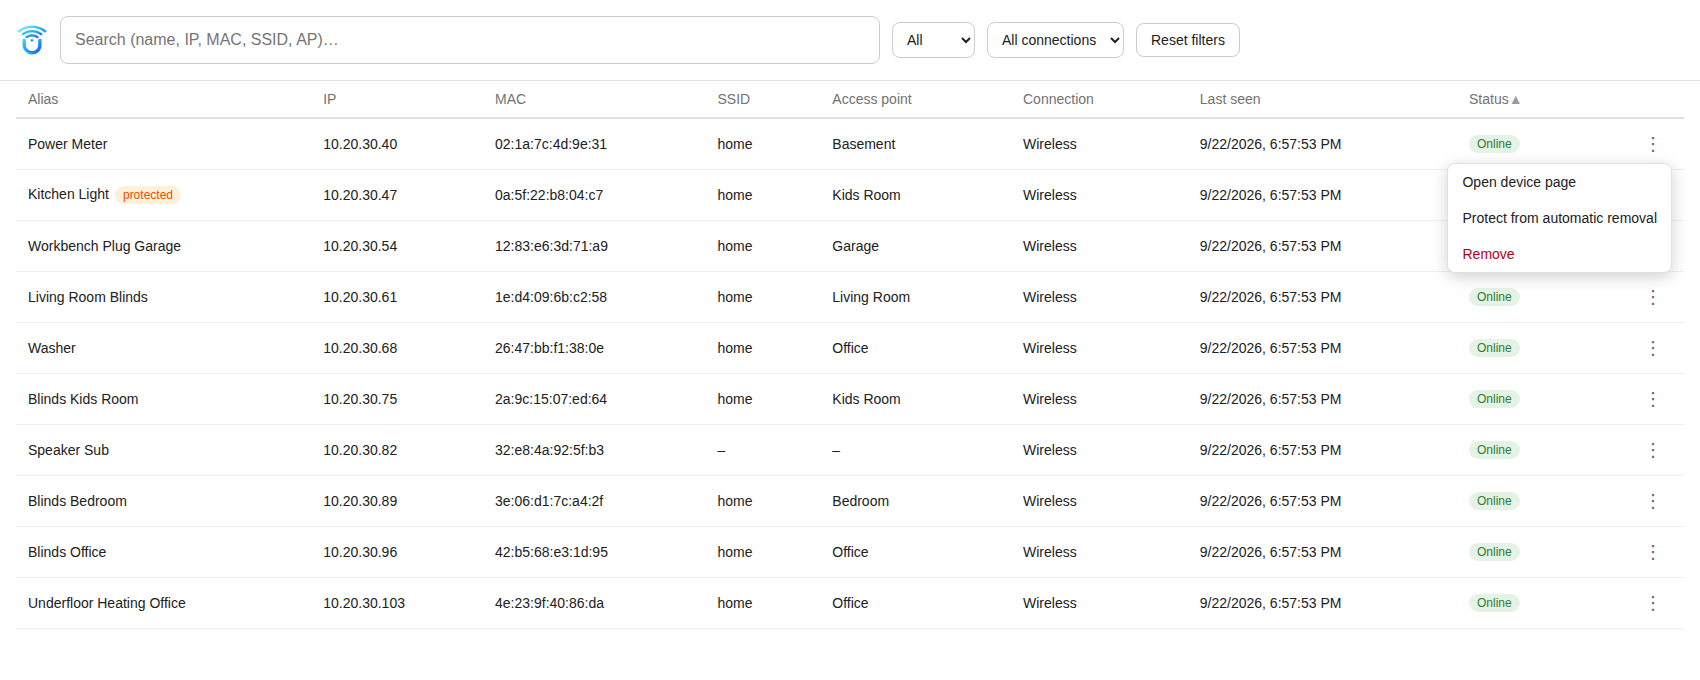
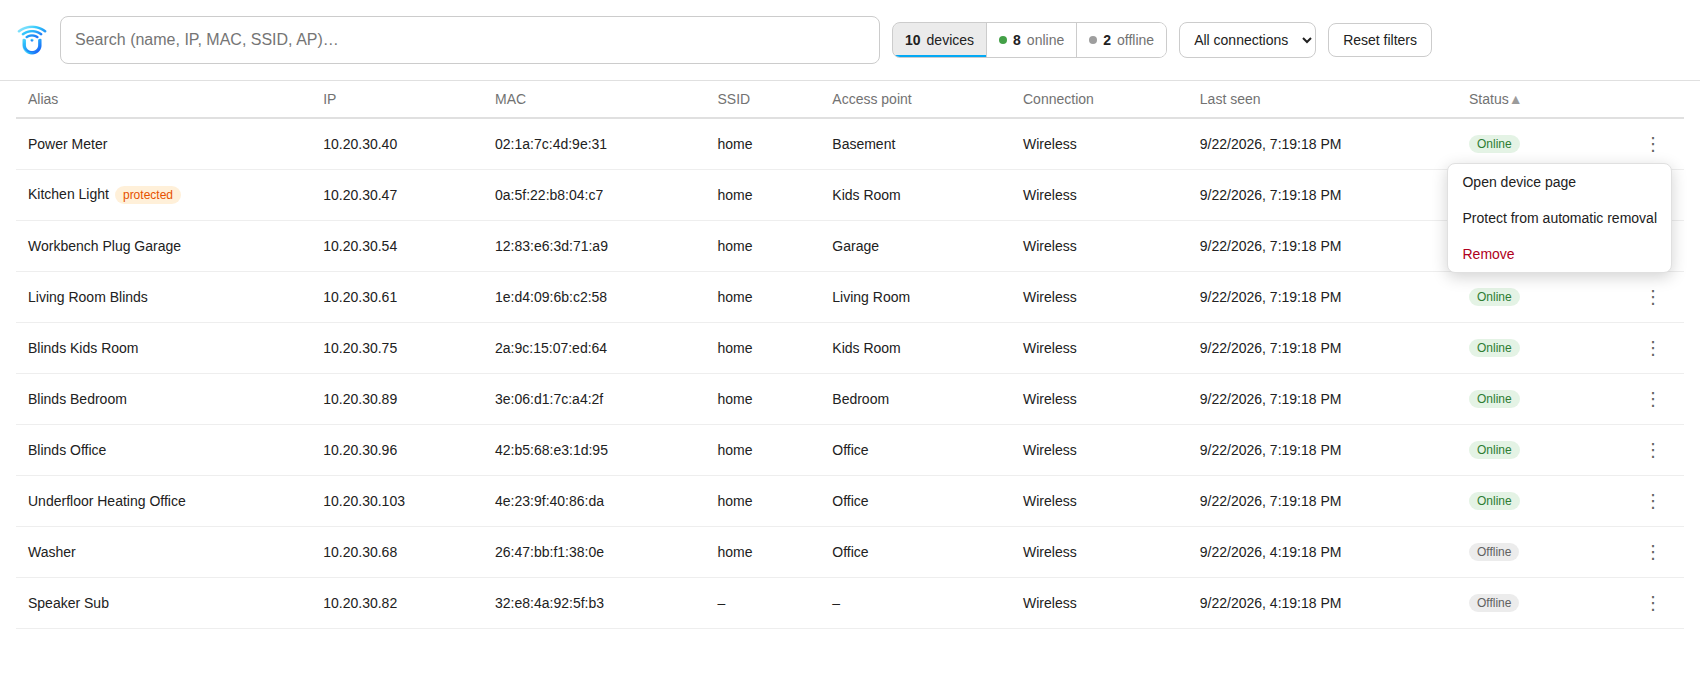
feat: Statusleiste mit Geräte-Zähler als Online/Offline-Filter (v2.0.13)
Die Werkzeugleiste zeigt "40 Geräte · ● 34 online · ○ 6 offline" über
alle Hosts, unabhängig von Suche und Verbindungsfilter. Die Leiste ersetzt
das bisherige Auswahlfeld Alle/Online/Offline und dient selbst als Filter:
Tipp auf online/offline filtert, erneuter Tipp auf den aktiven Teil zeigt
wieder alle, der aktive Teil ist in der Akzentfarbe des Designs markiert.
Die Wahl wird wie die anderen Filter gespeichert (gleicher Pref-Schlüssel,
bestehende Einstellungen gelten weiter).

Auf dem Handy eigene Zeile über die volle Breite, Verbindungsfilter und
Zurücksetzen teilen sich die nächste; etwas knappere Abstände machen die
Werkzeugleiste trotz Zähler 12px niedriger als zuvor (163 statt 175px).

--primary-color und --success-color werden zusätzlich aus dem HA-Design
ins iframe übernommen. Getestet gegen den HA-Nachbau mit Mobile-Emulation:
Zählerwerte, Filtern, Zurückschalten, Zurücksetzen, Persistenz über
Neuladen, Einzahl/Mehrzahl DE/EN, Layout Handy/Desktop (19/19) sowie die
bestehenden Scroll-/Menü-/Navigationstests (27/27).

README-Texte und -Screenshots (erfundene Daten) angepasst.

Claude-Session: https://claude.ai/code/session_01R4WzDvQgfXjNqKYPLvb2xi

diff --git a/custom_components/unifi_dynamic/panel/unifi-dynamic-panel.js b/custom_components/unifi_dynamic/panel/unifi-dynamic-panel.js
@@ -25,9 +25,13 @@
 const STRINGS = {
   de: {
     searchPlaceholder: "Suche (Name, IP, MAC, SSID, AP)…",
-    filterOnlineAll: "Alle",
-    filterOnlineOnline: "Online",
-    filterOnlineOffline: "Offline",
+    statsGroup: "Status-Filter",
+    statTotal: (n) => (n === 1 ? "Gerät" : "Geräte"),
+    statOnline: "online",
+    statOffline: "offline",
+    statShowAll: "Alle anzeigen",
+    statShowOnline: "Nur Online-Geräte anzeigen",
+    statShowOffline: "Nur Offline-Geräte anzeigen",
     filterConnAll: "Alle Verbindungen",
     filterConnWired: "Kabel",
     filterConnWireless: "WLAN",
@@ -63,9 +67,13 @@ const STRINGS = {
   },
   en: {
     searchPlaceholder: "Search (name, IP, MAC, SSID, AP)…",
-    filterOnlineAll: "All",
-    filterOnlineOnline: "Online",
-    filterOnlineOffline: "Offline",
+    statsGroup: "Status filter",
+    statTotal: (n) => (n === 1 ? "device" : "devices"),
+    statOnline: "online",
+    statOffline: "offline",
+    statShowAll: "Show all",
+    statShowOnline: "Show online devices only",
+    statShowOffline: "Show offline devices only",
     filterConnAll: "All connections",
     filterConnWired: "Wired",
     filterConnWireless: "Wireless",
@@ -545,6 +553,78 @@ class UnifiDynamicPanel extends HTMLElement {
           color: var(--primary-text-color, #212121);
           font-size: 14px;
         }
+        /* Zähler und Online/Offline-Filter in einem: ersetzt das frühere
+           Auswahlfeld "Alle/Online/Offline", damit die Werkzeugleiste mit
+           dem Zähler nicht höher wird. Die Zahlen gelten immer für alle
+           Geräte, unabhängig von Suche und Verbindungsfilter. */
+        .stats {
+          flex: 0 0 auto;
+          display: inline-flex;
+          border: 1px solid var(--divider-color, #ccc);
+          border-radius: 8px;
+          overflow: hidden;
+        }
+        .stat {
+          display: inline-flex;
+          align-items: center;
+          justify-content: center;
+          gap: 6px;
+          padding: 7px 12px;
+          border: none;
+          border-left: 1px solid var(--divider-color, #ccc);
+          background: var(--primary-background-color, #fff);
+          color: var(--secondary-text-color, #727272);
+          font: inherit;
+          font-size: 14px;
+          line-height: 20px;
+          cursor: pointer;
+          white-space: nowrap;
+        }
+        .stat:first-child {
+          border-left: none;
+        }
+        .stat:hover {
+          background: var(--secondary-background-color, rgba(0,0,0,0.06));
+        }
+        .stat.active {
+          background: var(--secondary-background-color, rgba(0,0,0,0.08));
+          color: var(--primary-text-color, #212121);
+          box-shadow: inset 0 -2px 0 var(--primary-color, #03a9f4);
+        }
+        .stat-num {
+          font-weight: 600;
+          font-variant-numeric: tabular-nums;
+          color: var(--primary-text-color, #212121);
+        }
+        .dot {
+          width: 8px;
+          height: 8px;
+          border-radius: 50%;
+          flex: 0 0 auto;
+        }
+        .dot.online {
+          background: var(--success-color, #43a047);
+        }
+        .dot.offline {
+          background: var(--disabled-text-color, #9e9e9e);
+        }
+        /* Schmaler Bildschirm: Statusleiste über die ganze Breite, Teile
+           gleich breit - wirkt als eigene Zeile ruhiger als eine halb
+           gefüllte. Etwas knappere Abstände in der Werkzeugleiste lassen
+           der Tabelle trotz Zähler mehr Platz als vorher. */
+        @media (max-width: 600px) {
+          .toolbar {
+            padding: 12px 16px;
+            gap: 10px;
+          }
+          .stats {
+            flex: 1 1 100%;
+          }
+          .stat {
+            flex: 1 1 0;
+            padding: 6px;
+          }
+        }
         .reset-btn {
           padding: 8px 14px;
           border-radius: 8px;
@@ -735,11 +815,22 @@ class UnifiDynamicPanel extends HTMLElement {
             t("clearSearch")
           )}">×</button>
         </div>
-        <select class="filter-online">
-          <option value="all">${this._escape(t("filterOnlineAll"))}</option>
-          <option value="online">${this._escape(t("filterOnlineOnline"))}</option>
-          <option value="offline">${this._escape(t("filterOnlineOffline"))}</option>
-        </select>
+        <div class="stats" role="group" aria-label="${this._escape(t("statsGroup"))}">
+          <button class="stat" data-filter="all" title="${this._escape(t("statShowAll"))}">
+            <span class="stat-num" data-count="all">–</span>
+            <span class="stat-label" data-label="all">${this._escape(t("statTotal")(0))}</span>
+          </button>
+          <button class="stat" data-filter="online" title="${this._escape(t("statShowOnline"))}">
+            <span class="dot online"></span>
+            <span class="stat-num" data-count="online">–</span>
+            <span class="stat-label">${this._escape(t("statOnline"))}</span>
+          </button>
+          <button class="stat" data-filter="offline" title="${this._escape(t("statShowOffline"))}">
+            <span class="dot offline"></span>
+            <span class="stat-num" data-count="offline">–</span>
+            <span class="stat-label">${this._escape(t("statOffline"))}</span>
+          </button>
+        </div>
         <select class="filter-conn">
           <option value="all">${this._escape(t("filterConnAll"))}</option>
           <option value="wired">${this._escape(t("filterConnWired"))}</option>
@@ -792,17 +883,22 @@ class UnifiDynamicPanel extends HTMLElement {
       this._savePrefs();
     });
 
-    // Wert aus den wiederhergestellten Einstellungen übernehmen: <select>
-    // spiegelt kein JS-Feld automatisch, das Attribut im Template müsste
-    // sonst das passende <option> mit "selected" markieren.
-    const filterOnline = this.shadowRoot.querySelector(".filter-online");
-    filterOnline.value = this._onlineFilter;
-    filterOnline.addEventListener("change", (ev) => {
-      this._onlineFilter = ev.target.value;
+    // Statusleiste als Filter: erneuter Tipp auf den bereits aktiven Teil
+    // (online/offline) schaltet zurück auf alle.
+    this.shadowRoot.querySelector(".stats").addEventListener("click", (ev) => {
+      const btn = ev.target.closest(".stat");
+      if (!btn) return;
+      const filter = btn.dataset.filter;
+      this._onlineFilter =
+        filter !== "all" && filter === this._onlineFilter ? "all" : filter;
+      this._openMenuKey = null;
       this._renderRows();
       this._savePrefs();
     });
 
+    // Wert aus den wiederhergestellten Einstellungen übernehmen: <select>
+    // spiegelt kein JS-Feld automatisch, das Attribut im Template müsste
+    // sonst das passende <option> mit "selected" markieren.
     const filterConn = this.shadowRoot.querySelector(".filter-conn");
     filterConn.value = this._connFilter;
     filterConn.addEventListener("change", (ev) => {
@@ -819,7 +915,6 @@ class UnifiDynamicPanel extends HTMLElement {
       this._sortDir = DEFAULT_PREFS.sortDir;
       search.value = this._search;
       searchClear.classList.remove("visible");
-      filterOnline.value = this._onlineFilter;
       filterConn.value = this._connFilter;
       this._openMenuKey = null;
       this._renderHeader();
@@ -914,10 +1009,37 @@ class UnifiDynamicPanel extends HTMLElement {
     // Menüpunkt "Geräteseite öffnen" erreichbar.
   }
 
+  // Zählt immer über alle Geräte (alle Hosts), unabhängig von Suche und
+  // Verbindungsfilter - "wie viele sind gerade online", nicht "wie viele
+  // Zeilen sehe ich". Vor dem ersten Laden und wenn es noch nie geklappt
+  // hat ein Strich statt einer falschen 0.
+  _renderStats() {
+    const root = this.shadowRoot;
+    const stats = root && root.querySelector(".stats");
+    if (!stats) return;
+    const total = this._clients.length;
+    const known = total > 0 || (!this._loading && !this._error);
+    const online = this._clients.filter((c) => c.online).length;
+    const counts = { all: total, online, offline: total - online };
+    for (const key of Object.keys(counts)) {
+      stats.querySelector(`[data-count="${key}"]`).textContent = known
+        ? String(counts[key])
+        : "–";
+    }
+    stats.querySelector('[data-label="all"]').textContent = this._t("statTotal")(total);
+    for (const btn of stats.querySelectorAll(".stat")) {
+      const active = btn.dataset.filter === this._onlineFilter;
+      btn.classList.toggle("active", active);
+      btn.setAttribute("aria-pressed", active ? "true" : "false");
+    }
+  }
+
   _renderRows() {
     if (!this.shadowRoot) return;
     const tbody = this.shadowRoot.querySelector("tbody");
     if (!tbody) return;
+
+    this._renderStats();
 
     const errorBanner = this.shadowRoot.querySelector(".error-banner");
     if (this._error) {

diff --git a/custom_components/unifi_dynamic/panel/panel.html b/custom_components/unifi_dynamic/panel/panel.html
@@ -47,6 +47,8 @@
     "--disabled-text-color",
     "--divider-color",
     "--error-color",
+    "--primary-color",
+    "--success-color",
     "--ha-font-family-body",
     "--paper-font-body1_-_font-family",
   ];

diff --git a/custom_components/unifi_dynamic/const.py b/custom_components/unifi_dynamic/const.py
@@ -167,7 +167,7 @@ PANEL_STATIC_URL_PATH = f"{STATIC_URL_PATH}/panel"
 # Versionsstempel als Cache-Buster an der Seiten-URL; panel.html reicht ihn
 # an den Import der JS-Datei weiter. Wird bei jeder Änderung an panel.html
 # oder am Panel-JS von Hand erhöht, unabhängig von der Integrationsversion.
-PANEL_VERSION = "12"
+PANEL_VERSION = "13"
 PANEL_PAGE_URL = f"{PANEL_STATIC_URL_PATH}/{PANEL_HTML_FILE}?v={PANEL_VERSION}"
 
 DATA_PANEL_REGISTERED = "unifi_dynamic_panel_registered"

diff --git a/CHANGELOG.md b/CHANGELOG.md
@@ -5,6 +5,28 @@ All notable changes to this integration are documented in this file.
 The format is based on [Keep a Changelog](https://keepachangelog.com/en/1.1.0/),
 and this project adheres to [Semantic Versioning](https://semver.org/).
 
+## [2.0.13] - 2026-09-22
+
+### Added
+
+- The panel's toolbar shows a status bar counting all devices and how many
+  of them are online and offline ("40 devices · ● 34 online · ○ 6
+  offline"), across all hosts and regardless of the search or the other
+  filter. It doubles as the online/offline filter: tapping "online" or
+  "offline" shows only those devices, tapping the active part again goes
+  back to all, and the active part is highlighted in the theme's accent
+  color. The choice is remembered like the other filters.
+
+### Changed
+
+- The status bar replaces the former "All/Online/Offline" dropdown, so the
+  counter takes no extra room. On a phone it gets its own full-width row,
+  the connection filter and the reset button share the next one, and the
+  toolbar's spacing is a little tighter — 12px less height than before
+  despite the counter, leaving that much more room for the table.
+- README screenshots re-rendered with the status bar, again with entirely
+  made-up data.
+
 ## [2.0.12] - 2026-09-22
 
 ### Fixed
@@ -757,6 +779,7 @@ First version published on GitHub.
 - SSID and access point sensors only for clients ever seen on wireless.
   Existing entities of wired-only clients are cleaned up at startup.
 
+[2.0.13]: https://github.com/Diegofuego871/unifi_dynamic/releases/tag/v2.0.13
 [2.0.12]: https://github.com/Diegofuego871/unifi_dynamic/releases/tag/v2.0.12
 [2.0.11]: https://github.com/Diegofuego871/unifi_dynamic/releases/tag/v2.0.11
 [2.0.10]: https://github.com/Diegofuego871/unifi_dynamic/releases/tag/v2.0.10

diff --git a/README.de.md b/README.de.md
@@ -156,16 +156,21 @@ Point, Verbindungsart, zuletzt gesehen und ein Online/Offline-Badge —, die
 sich aktualisiert, indem sie alle 10 Sekunden nachfragt, solange das Panel
 offen ist. Die Suchleiste oben durchsucht alle diese Felder gleichzeitig,
 mit einem „×"-Button, der erscheint, sobald Text drinsteht, und ihn mit
-einem Klick leert; zwei zusätzliche Dropdowns filtern nach Online/Offline
-und Kabel/WLAN. Ein
-Klick auf eine Spaltenüberschrift sortiert die Tabelle aufsteigend danach;
+einem Klick leert. Daneben zählt eine Statusleiste alle Geräte und wie viele
+davon online und offline sind — „40 Geräte · ● 34 online · ○ 6 offline" —
+über alle Hosts hinweg, unabhängig von der Suche und dem anderen Filter. Sie
+dient zugleich als Online/Offline-Filter: ein Tipp auf „online" oder
+„offline" zeigt nur diese Geräte, ein erneuter Tipp auf den aktiven Teil
+wieder alle, und der aktive Teil ist hervorgehoben. Ein Dropdown filtert
+nach Kabel/WLAN. Ein Klick auf eine Spaltenüberschrift sortiert die Tabelle
+aufsteigend danach;
 ein erneuter Klick auf dieselbe Überschrift dreht auf absteigend um, ein
 Klick auf eine andere Überschrift wechselt die Sortierspalte. Ein kleiner
 Pfeil markiert die aktive Spalte und Richtung. Zeilen ohne Wert in der
 sortierten Spalte (keine IP, nie gesehen) landen immer am Ende, unabhängig
 von der Richtung.
 
-Suchtext, beide Dropdown-Filter sowie Sortierspalte und -richtung werden im
+Suchtext, beide Filter sowie Sortierspalte und -richtung werden im
 `localStorage` des Browsers gemerkt und überstehen ein Neuladen der Seite
 oder sogar einen kompletten Home-Assistant-Neustart — `localStorage` hat
 mit dem HA-Prozess nichts zu tun, bleibt also in beiden Fällen unberührt.

diff --git a/README.md b/README.md
@@ -153,15 +153,20 @@ configured UniFi hosts — alias, IP, MAC, SSID, access point, connection
 type, last seen and an online/offline badge — refreshed by polling every 10
 seconds while the panel is open. The search box at the top matches across
 all of those fields at once, with a "×" button that appears once it has
-text and clears it in one click; two dropdowns additionally filter by
-online/offline and wired/wireless. Clicking a column header sorts the table
+text and clears it in one click. Next to it, a status bar counts all
+devices and how many of them are online and offline — "40 devices · ● 34
+online · ○ 6 offline" — across all hosts, regardless of the search or the
+other filter. It doubles as the online/offline filter: tapping "online" or
+"offline" shows only those devices, tapping the active part again goes back
+to all, and the active part is highlighted. A dropdown filters by
+wired/wireless. Clicking a column header sorts the table
 by that column, ascending; clicking the same header again reverses to
 descending, and clicking a different header switches to sorting by that one
 instead. A small arrow marks the active column and direction. Rows with a
 missing value for the sorted column (no IP, never seen) always sort to the
 end, regardless of direction.
 
-The search text, both dropdown filters, and the sort column and direction
+The search text, both filters, and the sort column and direction
 are remembered in the browser's `localStorage` and survive a page reload or
 even a full Home Assistant restart — `localStorage` has nothing to do with
 the HA process, so it is unaffected either way. This is per browser/device,
